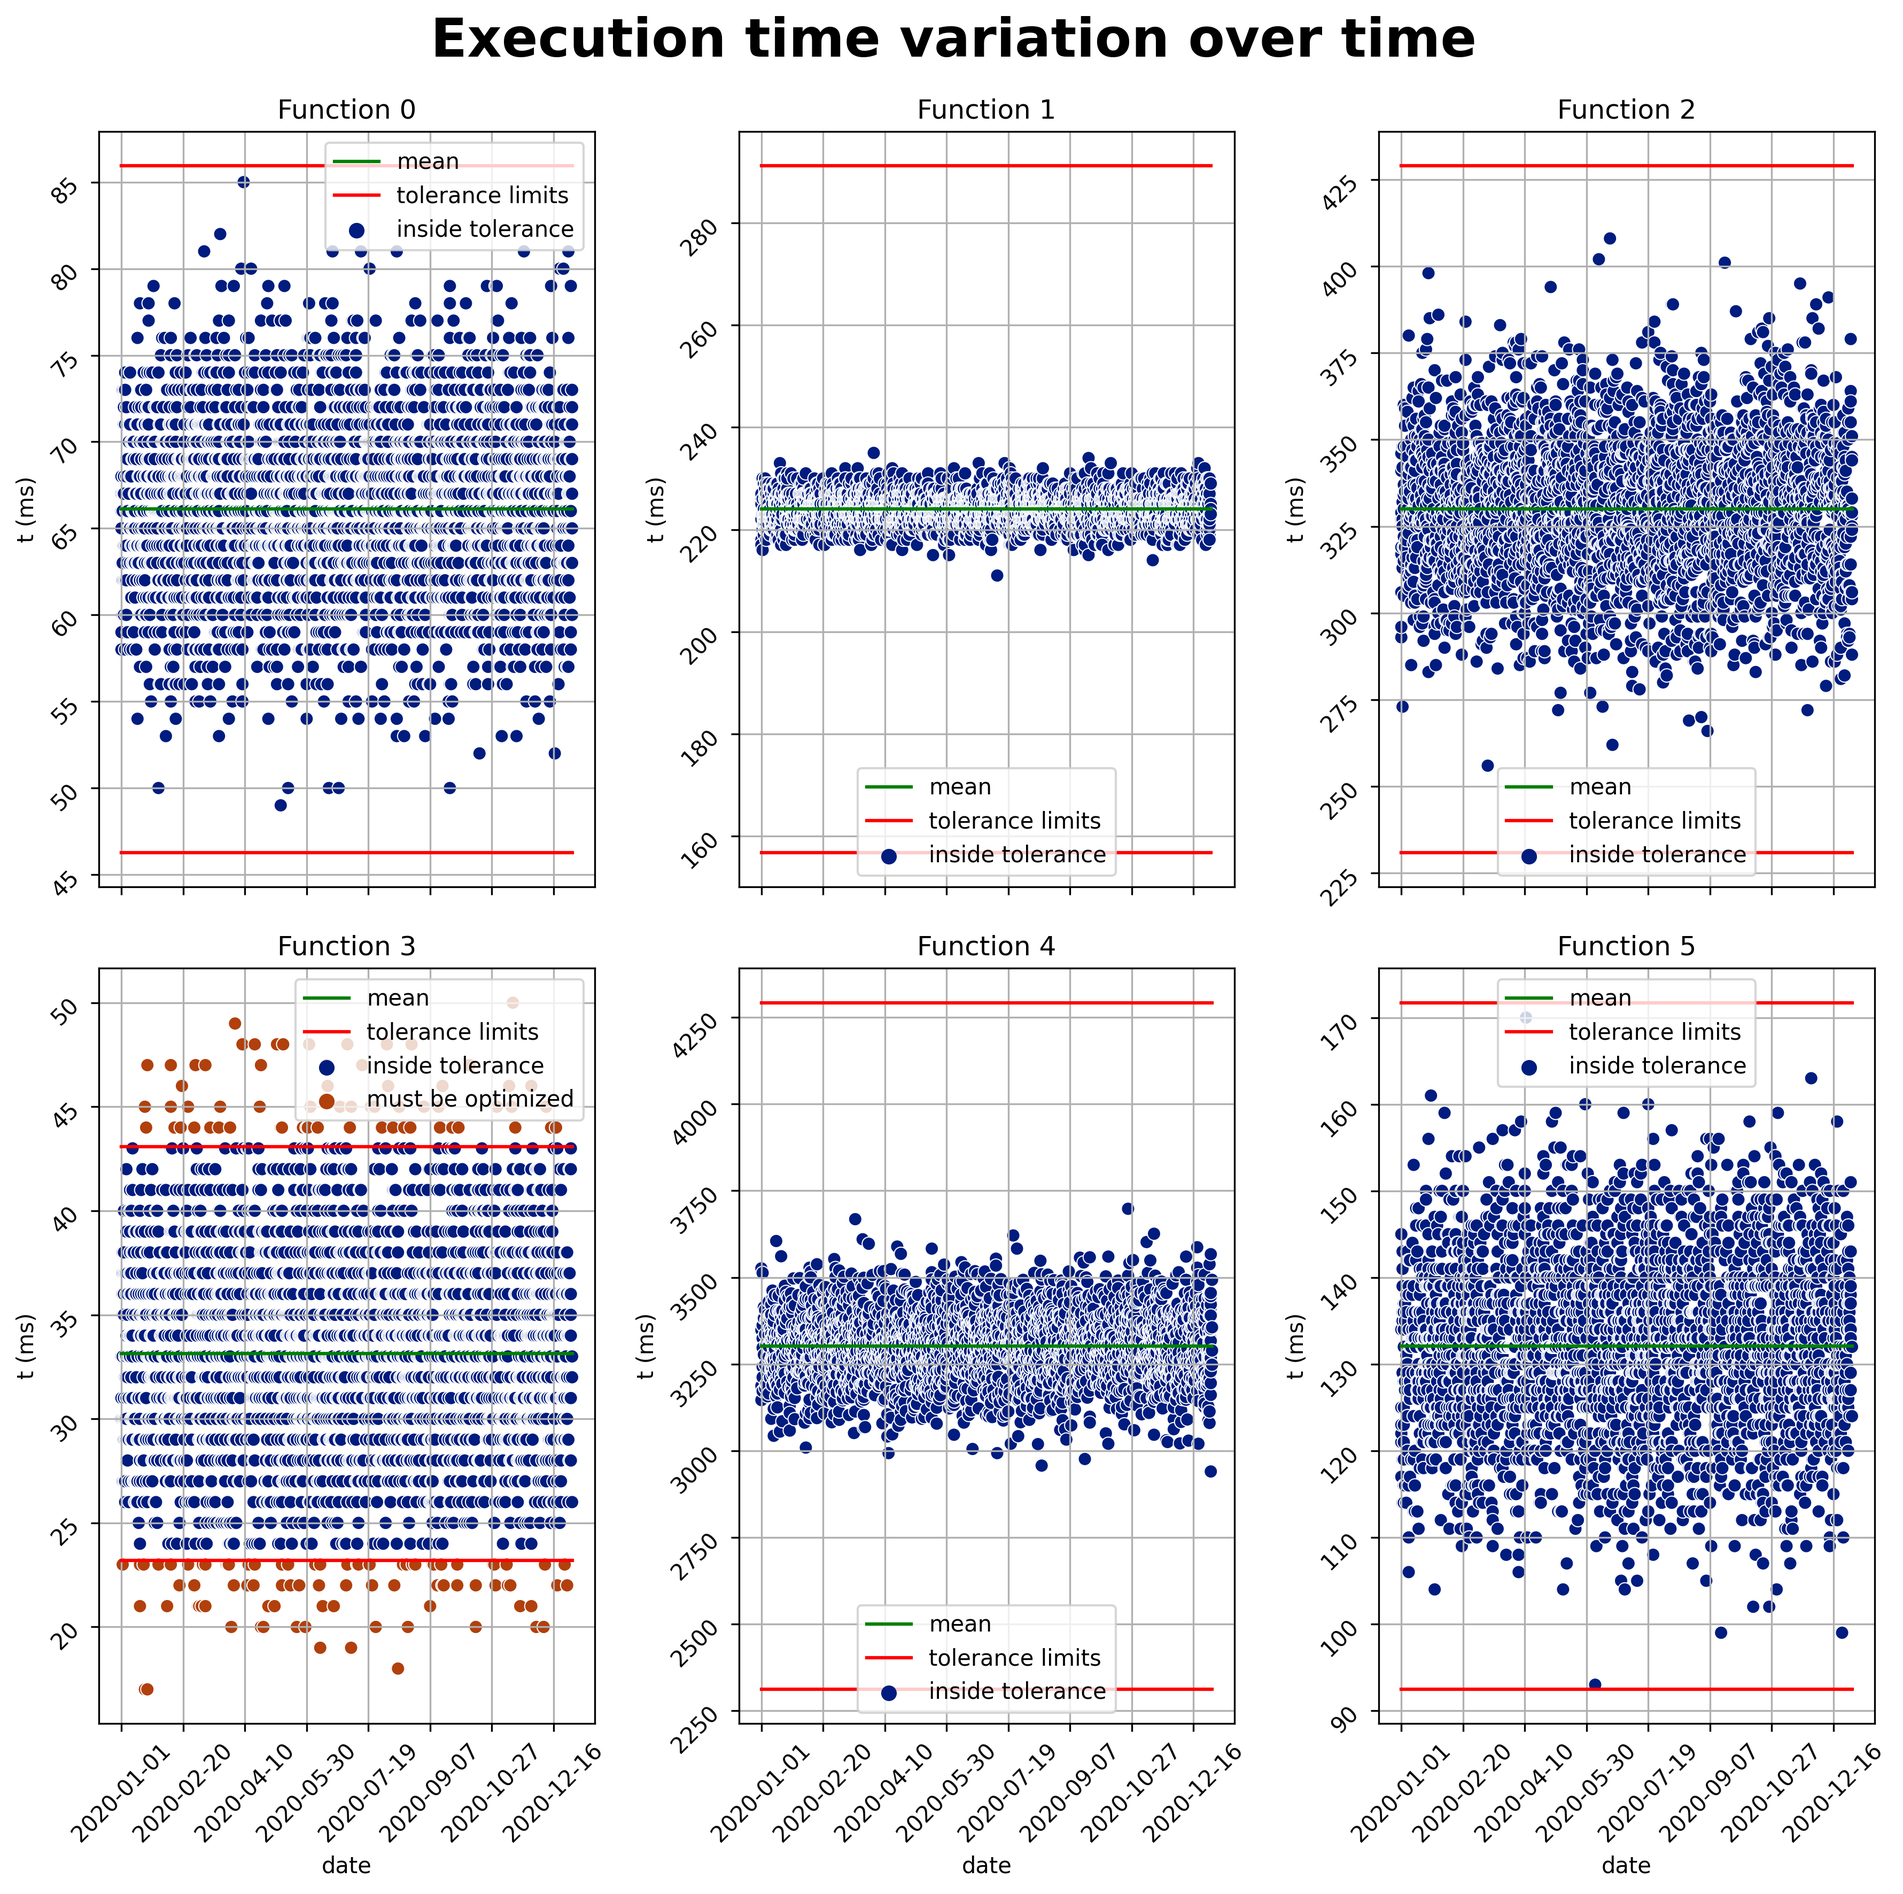
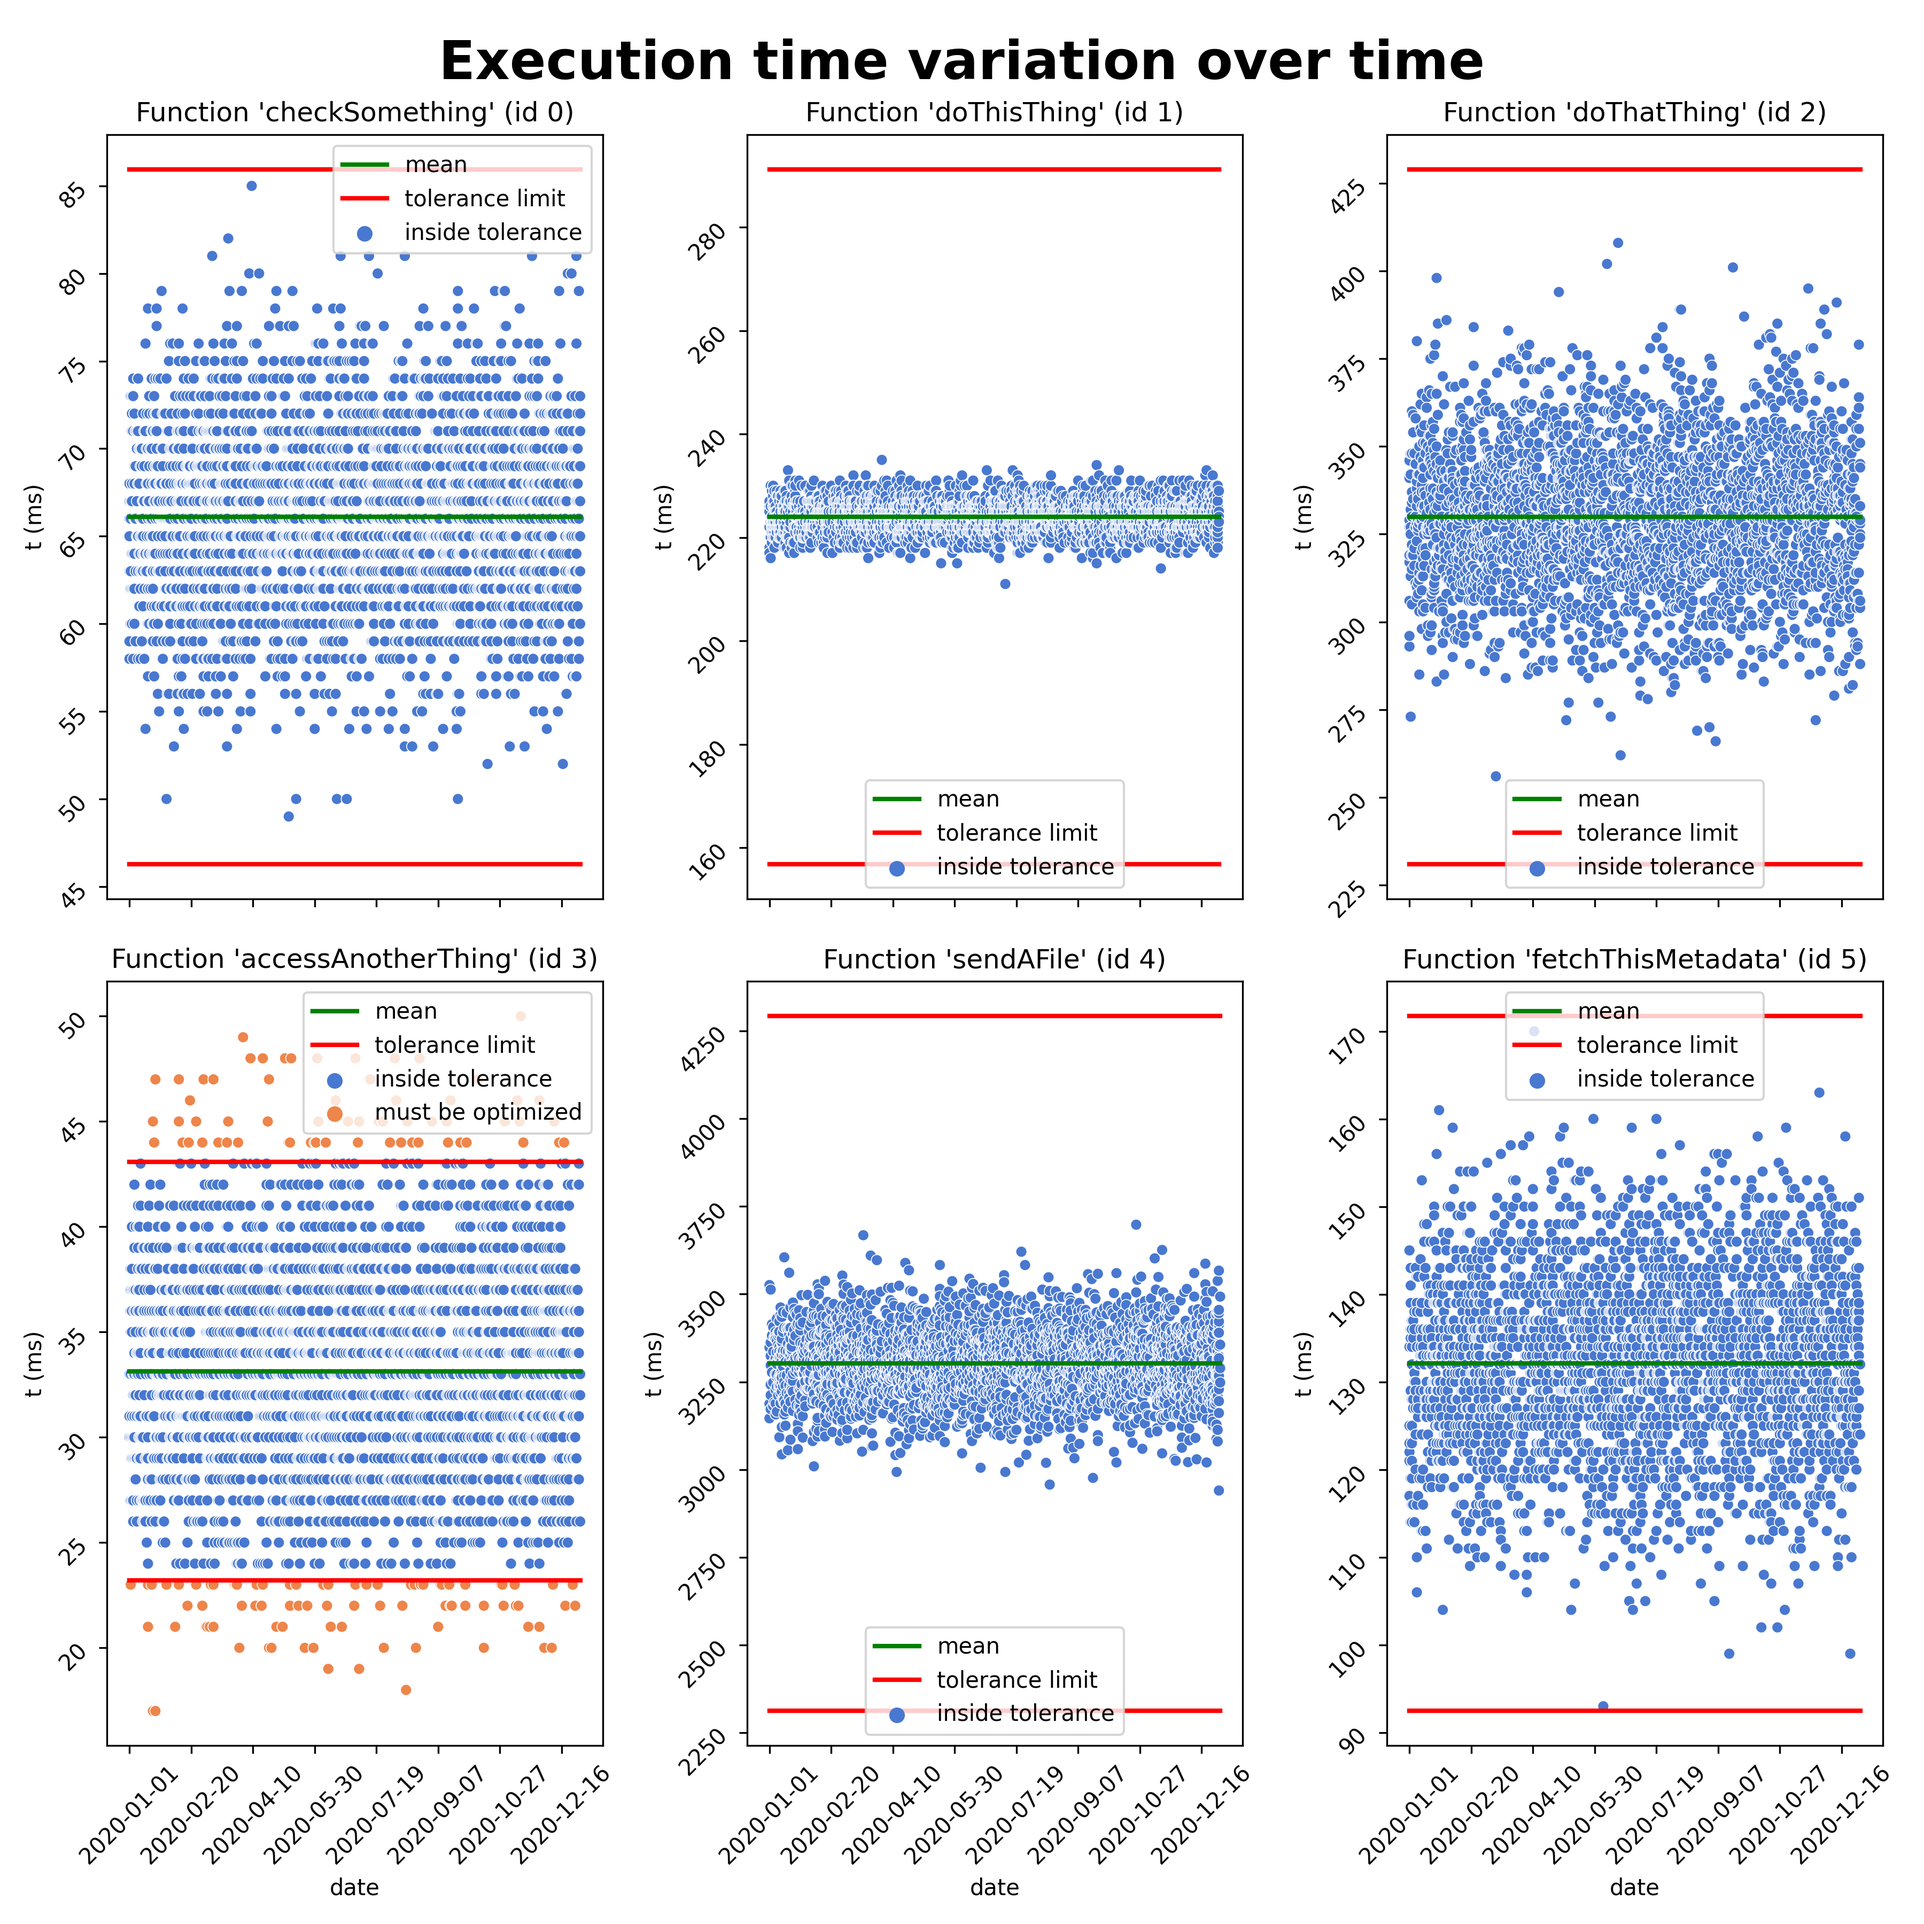
Functions executions data analysis finalized.

diff --git a/questao-3/main.py b/questao-3/main.py
@@ -1,10 +1,13 @@
 import os
 import pandas as pd
+import numpy as np
+import matplotlib.pyplot as plt
+import seaborn as sns
 
 cur_path = os.path.dirname(__file__)
 data_path = os.path.relpath('../data')
-raw_functions = pd.read_csv(os.path.join(data_path, 'functions.csv'))
-raw_executions = pd.read_csv(os.path.join(data_path, 'executions.csv'))
+raw_functions = pd.read_csv(os.path.join(data_path, 'functions.csv'), index_col='id')
+raw_executions = pd.read_csv(os.path.join(data_path, 'executions.csv'), index_col='id')
 
 print(raw_functions)
 print(raw_executions)
@@ -13,22 +16,91 @@ print(raw_executions)
 functions = raw_functions.copy()
 executions = raw_executions.copy()
 
-# function to subtract_latency from execution_time
-def subtract_latency(df):
-    function_id = df['function_id']
-    external_component_avg_latency = raw_functions[raw_functions['id'] == function_id]['external_component_avg_latency'].values[0]
-    return df['execution_time'] - external_component_avg_latency
+# sort executions by date
+executions.sort_values('date', inplace=True)
 
-executions['execution_time_for_deviation'] = executions[['function_id', 'execution_time']].apply(lambda df: subtract_latency(df), axis=1)
+# get dictionary to functions latency
+functions_latency_dict = functions['external_component_avg_latency'].to_dict()
 
+# subtract latency from execution time
+executions['function_execution_time'] = executions[['function_id', 'execution_time']].apply(lambda df: df['execution_time'] - functions_latency_dict[df['function_id']], 1)
+
+# show results
 print(executions)
 
-functions_study = pd.DataFrame()
+# create dict with execution_time mean
+functions_execution_time_mean_dict = executions.groupby('function_id').mean()['function_execution_time'].to_dict()
 
-functions_study['execution_time_deviation'] = executions.groupby('function_id').std()['execution_time_for_deviation']
+# show results
+print('\nExecution time means: ')
+for key in functions_execution_time_mean_dict.keys():
+    value = functions_execution_time_mean_dict[key]
+    print('\tFunction id {}: {:.0f}'.format(key, value))
 
-functions_study['execution_time_mean'] = executions.groupby('function_id').mean()['execution_time_for_deviation']
+# calculate porcentage variation from mean for each execution
+executions['variation'] = executions[['function_id', 'function_execution_time']] \
+    .apply(lambda df:
+        100*np.abs(df['function_execution_time'] - functions_execution_time_mean_dict[df['function_id']])/functions_execution_time_mean_dict[df['function_id']],
+        axis=1)
 
-functions_study['execution_time_deviation_porcentage'] = 100*functions_study['execution_time_deviation']/functions_study['execution_time_mean']
+# show results
+print(executions)
 
-print(functions_study)
+# create must be optimized
+executions['must_be_optimized'] = executions['variation'].apply(lambda variation: variation >= 30)
+
+# print how many times each function time execution variation is greater than 30%
+print('Must be optimized count: ')
+print(executions[executions['must_be_optimized']][['function_id', 'must_be_optimized']].groupby('function_id').count())
+
+def return_function_condition(boolean: bool):
+    if (boolean):
+        return 'must be optimized'
+    else:
+        return 'inside tolerance'
+
+# create function_condition column, which is 'must be optimized' or 'inside tolerance'
+executions['function_condition'] = executions['must_be_optimized'].apply(lambda value: return_function_condition(bool(value)))
+
+# show results
+print(executions)
+
+# create date time limits
+initial_date = executions['date'].values[0]
+final_date = executions['date'].values[-1]
+date_limits = np.array([initial_date, final_date])
+
+# create graphic
+fig, axis = plt.subplots(2, 3, sharex=True, figsize=(12, 12), dpi=300)
+axis = [ax for sublist in axis for ax in sublist]
+
+for ax, function_id in zip(axis, functions.sort_index().index.values):
+    # get function name
+    function_name = functions.loc[function_id]['function_name']
+
+    # plot data
+    sns.scatterplot(data=executions[executions['function_id']==function_id], x='date', y='function_execution_time', hue='function_condition', s=25, palette='muted', ax=ax)
+
+    # get and plot mean
+    mean = functions_execution_time_mean_dict[function_id]
+    ax.plot(date_limits, np.array([mean, mean]), c='g', label='mean', lw=2)
+
+    # calculate limits
+    lower_limit = 1.3*np.array([mean, mean])
+    upper_limit = 0.7*np.array([mean, mean])
+
+    # plot limits
+    ax.plot(date_limits, lower_limit, c='r', label='tolerance limit', lw=2)
+    ax.plot(date_limits, upper_limit, c='r', lw=2)
+
+    ax.set_title("Function '{}' (id {})".format(function_name, function_id))
+    ax.set_xticks(ax.get_xticks()[::50])
+    ax.set_ylabel('t (ms)')
+    ax.tick_params(rotation=45)
+    # ax.grid()
+    ax.legend()
+
+fig.suptitle('Execution time variation over time', weight='bold', size=24)
+fig.tight_layout()
+fig.subplots_adjust(top=0.93)
+fig.savefig('fig.png')
